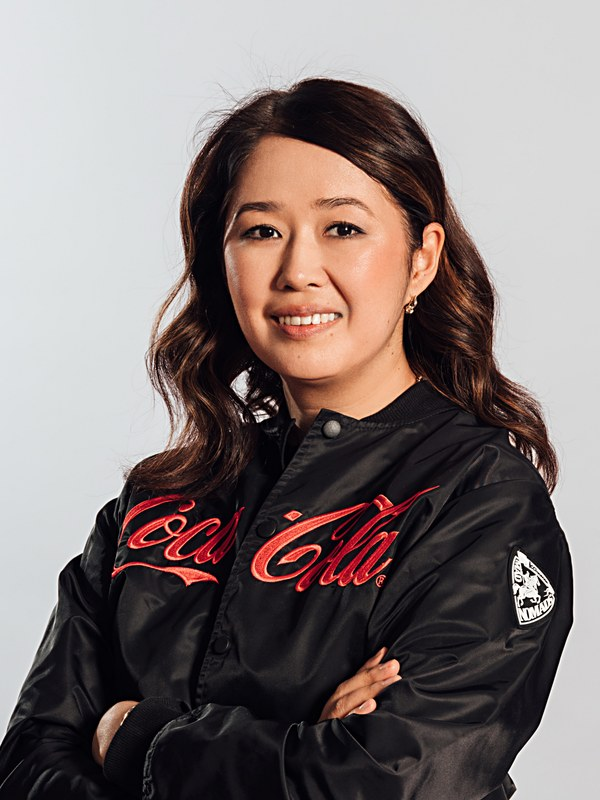
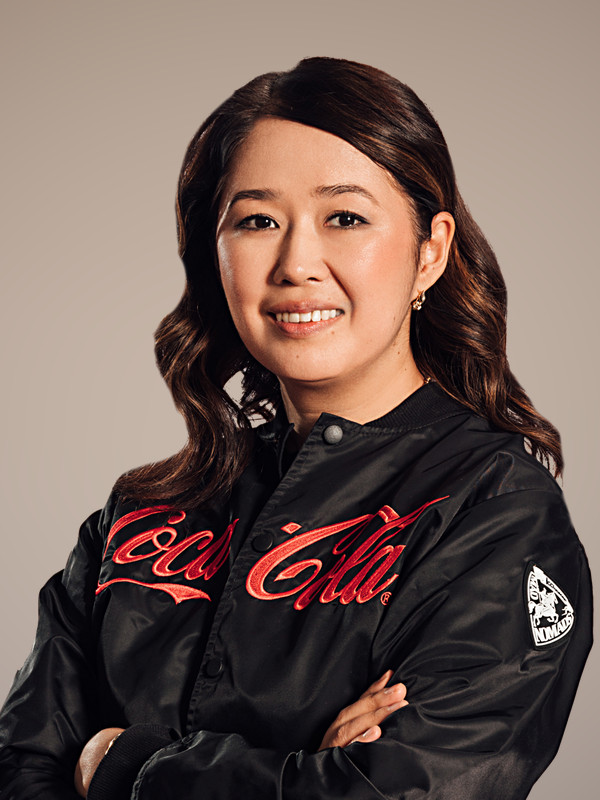
Фото Алимкуловой, Гомеча и Казанцева на фоне как у Усейнова
Вырезки дизайнеров заказчика, фон снят с фото Усейнова (tools/photos/compose_backdrop.py).

diff --git a/index.html b/index.html
@@ -14,7 +14,7 @@
   <link rel="preconnect" href="https://fonts.googleapis.com">
   <link rel="preconnect" href="https://fonts.gstatic.com" crossorigin>
   <link rel="stylesheet" href="https://fonts.googleapis.com/css2?family=Montserrat:wght@400;700&amp;display=swap">
-  <link rel="stylesheet" href="css/style.css?v=20261127b">
+  <link rel="stylesheet" href="css/style.css?v=20261127c">
 </head>
 <body>
 <!--PAGE-START-->
@@ -211,7 +211,7 @@
     <img id="lightboxImg" alt="Как добраться до площадки форума">
   </div>
 <!--PAGE-END-->
-  <script src="data/event.js?v=20261127b"></script>
-  <script src="js/app.js?v=20261127b"></script>
+  <script src="data/event.js?v=20261127c"></script>
+  <script src="js/app.js?v=20261127c"></script>
 </body>
 </html>

diff --git a/menu.html b/menu.html
@@ -10,7 +10,7 @@
   <link rel="preconnect" href="https://fonts.googleapis.com">
   <link rel="preconnect" href="https://fonts.gstatic.com" crossorigin>
   <link rel="stylesheet" href="https://fonts.googleapis.com/css2?family=Montserrat:wght@400;700&amp;display=swap">
-  <link rel="stylesheet" href="css/style.css?v=20261127b">
+  <link rel="stylesheet" href="css/style.css?v=20261127c">
 </head>
 <body>
 <!--MENU-START-->
@@ -50,7 +50,7 @@
     <div class="container"><p class="footer__copy" id="copyright"></p></div>
   </footer>
 <!--MENU-END-->
-  <script src="data/event.js?v=20261127b"></script>
-  <script src="js/menu.js?v=20261127b"></script>
+  <script src="data/event.js?v=20261127c"></script>
+  <script src="js/menu.js?v=20261127c"></script>
 </body>
 </html>

diff --git a/tools/photos/compose_backdrop.py b/tools/photos/compose_backdrop.py
@@ -1,0 +1,84 @@
+"""Фото спикеров на общем студийном фоне «как у Тарлана Усейнова» (просьба заказчика 27.11).
+
+Фон не выдуман: это гладкая модель настоящего фона с фото Усейнова (тёплый бежевый, сверху темнее) –
+по пикселям фона подбирается плавная поверхность, человек из расчёта исключается. Само фото Усейнова не трогаем.
+Вырезки людей (PNG с прозрачностью) присылают дизайнеры заказчика.
+
+python -I compose_backdrop.py <папка с вырезками> <assets/speakers> <превью.jpg> [#RRGGBB]
+Необязательный цвет: если заказчик пришлёт код цвета, фон сдвигается так, чтобы его середина стала этим цветом (перепад светлоты остаётся).
+Нужны pillow и numpy.
+"""
+import os
+import sys
+
+import numpy as np
+from PIL import Image
+
+cut_dir, out_dir, preview = sys.argv[1:4]
+target = sys.argv[4] if len(sys.argv) > 4 else None
+REF = os.path.join(out_dir, "useinov.jpg")       # образец фона
+
+# имя → (левый край, верх, ширина кадра в долях вырезки; размер холста). Кадр – как на прежних фото: лицо ≈ 38–42% ширины.
+PEOPLE = {
+    "alimkulova":  ((.195, .125, .60), (600, 800)),
+    "gomech":      ((.12, .04, .76), (600, 800)),
+    "kazantsev":   ((173 / 1333, 275 / 2000, 910 / 1333), (600, 800)),
+}
+
+
+def backdrop_model(path):
+    """Гладкая поверхность фона: по каждому каналу многочлен 2-й степени от (x, y), подогнанный по пикселям фона."""
+    im = np.asarray(Image.open(path).convert("RGB"), dtype=np.float64)
+    H, W, _ = im.shape
+    yy, xx = np.mgrid[0:H, 0:W]
+    x, y = xx / (W - 1) * 2 - 1, yy / (H - 1) * 2 - 1
+    A = np.stack([np.ones_like(x), x, y, x * x, x * y, y * y], axis=-1)
+    mask = ((xx < W * .06) | (xx > W * .94)) & (yy < H * .55) | (yy < H * .03)      # начало: края кадра, где человека нет
+    coef = None
+    for _ in range(4):
+        coef = np.stack([np.linalg.lstsq(A[mask], im[..., c][mask], rcond=None)[0] for c in range(3)], axis=1)
+        fit = A @ coef
+        mask = (np.abs(im - fit).max(axis=2) < 9) & (yy < H * .75)                    # всё, что близко к модели, – фон
+    return coef, float(mask.mean())
+
+
+def render(coef, W, H, shift):
+    yy, xx = np.mgrid[0:H, 0:W]
+    x, y = xx / (W - 1) * 2 - 1, yy / (H - 1) * 2 - 1
+    A = np.stack([np.ones_like(x), x, y, x * x, x * y, y * y], axis=-1)
+    return np.clip(A @ coef + shift, 0, 255)
+
+
+coef, share = backdrop_model(REF)
+mid = np.array([1, 0, 0, 0, 0, 0]) @ coef
+shift = np.zeros(3)
+if target:
+    want = np.array([int(target.lstrip("#")[i:i + 2], 16) for i in (0, 2, 4)], dtype=np.float64)
+    shift = want - mid
+print("фон по образцу: середина кадра", (mid + shift).round(0), "| доля пикселей фона в образце %.2f" % share)
+
+os.makedirs(out_dir, exist_ok=True)
+tiles = [Image.open(REF).convert("RGB").resize((300, 400))]
+for name, ((cx, cy, cw), (W, H)) in PEOPLE.items():
+    src = os.path.join(cut_dir, name + ".png")
+    if not os.path.exists(src):
+        print(f"{name:12s} пропуск: нет вырезки")
+        continue
+    cut = Image.open(src).convert("RGBA")
+    sw, sh = cut.size
+    x0, y0, w = round(sw * cx), round(sh * cy), round(sw * cw)
+    h = round(w * H / W)
+    assert x0 + w <= sw + 1 and y0 + h <= sh + 1, (name, x0 + w, sw, y0 + h, sh)
+    person = cut.crop((x0, y0, x0 + w, y0 + h)).resize((W, H), Image.LANCZOS)
+    bg = Image.fromarray(render(coef, W, H, shift).round().astype(np.uint8), "RGB").convert("RGBA")
+    bg.alpha_composite(person)
+    out = bg.convert("RGB")
+    path = os.path.join(out_dir, name + ".jpg")
+    out.save(path, quality=90, subsampling=0, optimize=True, progressive=True)
+    print(f"{name:12s} {W}x{H}  {os.path.getsize(path) // 1024} КБ")
+    tiles.append(out.resize((300, 400)))
+
+sheet = Image.new("RGB", (310 * len(tiles), 410), (20, 20, 20))
+for i, t in enumerate(tiles):
+    sheet.paste(t, (5 + 310 * i, 5))
+sheet.save(preview, quality=90)
